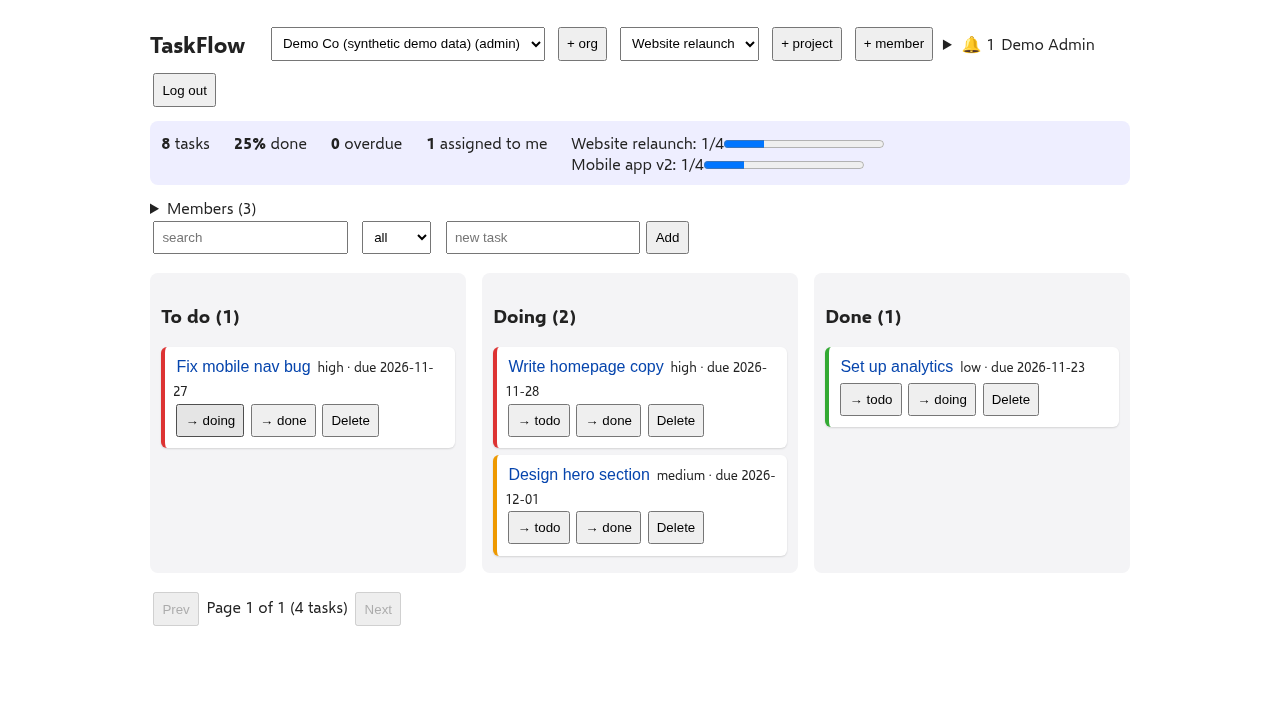
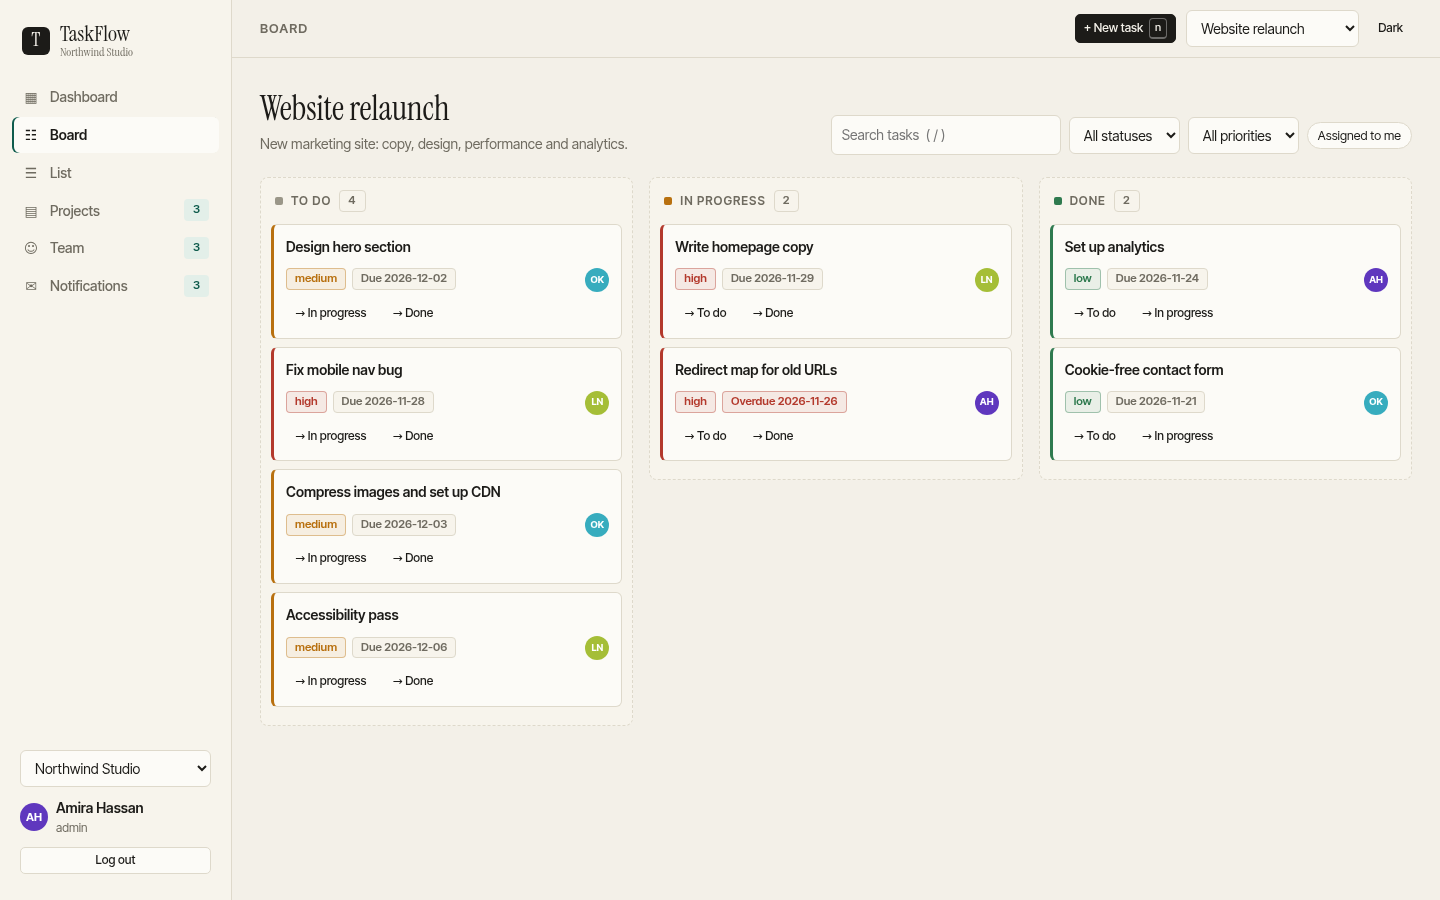
feat: richer starter workspace, redesigned task drawer, drag feedback; README screenshots

diff --git a/frontend/src/TaskDetail.tsx b/frontend/src/TaskDetail.tsx
@@ -32,29 +32,36 @@ export function TaskDetail({ task, members, me, role, onClose, onChanged }: Prop
   }
   const set = <K extends keyof Task>(k: K, v: Task[K]) => setDraft((d) => ({ ...d, [k]: v }));
 
+  const STATUS_TXT: Record<Status, string> = { todo: "To do", doing: "In progress", done: "Done" };
+  const pk = draft.priority === "high" ? "bad" : draft.priority === "medium" ? "warn" : "ok";
   return (
     <Modal drawer title="Task details" onClose={onClose}>
-      <div className="col" aria-label="Task details">
-        <label className="f">Title<input aria-label="Title" disabled={!editable} value={draft.title} onChange={(e) => set("title", e.target.value)} /></label>
-        <label className="f">Description<textarea aria-label="Description" disabled={!editable} value={draft.description} onChange={(e) => set("description", e.target.value)} placeholder="Add details, acceptance criteria, links..." /></label>
-        <div className="grid g2">
+      <div className="col td" aria-label="Task details">
+        <div className="row">
+          <span className={`pill s-${draft.status}`}>{STATUS_TXT[draft.status]}</span>
+          <span className={`badge ${pk}`}>{draft.priority} priority</span>
+          <span className="muted small sp">#{task.id}</span>
+        </div>
+        <input className="td-title" aria-label="Title" disabled={!editable} value={draft.title} onChange={(e) => set("title", e.target.value)} />
+        <div className="td-meta">
           <label className="f">Status<select disabled={!editable} value={draft.status} onChange={(e) => set("status", e.target.value as Status)}><option value="todo">To do</option><option value="doing">In progress</option><option value="done">Done</option></select></label>
           <label className="f">Priority<select disabled={!editable} value={draft.priority} onChange={(e) => set("priority", e.target.value as Priority)}><option>low</option><option>medium</option><option>high</option></select></label>
           <label className="f">Assignee<select disabled={!editable} value={draft.assignee_id ?? ""} onChange={(e) => set("assignee_id", e.target.value ? Number(e.target.value) : null)}><option value="">Unassigned</option>{members.map((m) => <option key={m.user_id} value={m.user_id}>{m.name || m.email}</option>)}</select></label>
           <label className="f">Due date<input type="date" disabled={!editable} value={draft.due_date ?? ""} onChange={(e) => set("due_date", e.target.value || null)} /></label>
         </div>
+        <label className="f">Description<textarea aria-label="Description" disabled={!editable} value={draft.description} onChange={(e) => set("description", e.target.value)} placeholder="Add details, acceptance criteria, links..." /></label>
         <div className="row">
           {editable && <button className="btn primary" onClick={save}>Save changes</button>}
           {atLeast(role, "manager") && <button className="btn danger sp" onClick={remove}>Delete</button>}
         </div>
         {error && <p role="alert" className="err">{error}</p>}
-        <h3 style={{ marginTop: 10 }}>Comments ({comments.length})</h3>
-        <div className="list">
+        <h3 style={{ marginTop: 14 }}>Activity &middot; {comments.length} comment{comments.length === 1 ? "" : "s"}</h3>
+        <div className="thread">
           {comments.length === 0 && <p className="muted small">No comments yet. Start the conversation.</p>}
           {comments.map((c) => (
-            <div key={c.id} className="row" style={{ alignItems: "flex-start" }}>
-              <Avatar name={who(c.author_id)} />
-              <div><b>{who(c.author_id)}</b> <span className="muted small">{c.created_at ? ago(c.created_at) : ""}</span><p>{c.body}</p></div>
+            <div key={c.id} className="cm">
+              <Avatar name={who(c.author_id)} size={26} />
+              <div className="cm-b"><div className="cm-h"><b>{who(c.author_id)}</b><span className="muted small">{c.created_at ? ago(c.created_at) : ""}</span></div><p>{c.body}</p></div>
             </div>
           ))}
         </div>

diff --git a/frontend/src/styles.css b/frontend/src/styles.css
@@ -70,3 +70,14 @@ table.t{width:100%;border-collapse:collapse}table.t th{text-align:left;font-size
 .login-wrap .card{background:var(--panel)}
 @media(max-width:900px){.shell{grid-template-columns:1fr}.side{position:fixed;left:0;top:0;z-index:40;transform:translateX(-100%);transition:.2s;width:var(--side)}.side.open{transform:none}.menu-btn{display:inline-flex}.g2,.g3,.g4,.g-main{grid-template-columns:1fr}.page{padding:20px 14px}.top{padding:10px 14px}.cols{grid-template-columns:1fr}.lp{grid-template-columns:1fr}.lp-l{padding:28px 22px}.mini{display:none}}
 @media(min-width:901px) and (max-width:1150px){.g4{grid-template-columns:repeat(2,1fr)}.g3{grid-template-columns:repeat(2,1fr)}}
+
+/* task drawer */
+.td-title{font-family:var(--serif);font-size:30px;line-height:1.1;border:0;background:transparent;padding:4px 0;border-bottom:1px solid transparent;border-radius:0;width:100%}.td-title:hover:not(:disabled),.td-title:focus{border-bottom-color:var(--border);box-shadow:none}
+.td-meta{display:grid;grid-template-columns:1fr 1fr;gap:12px;padding:14px 0;border-top:1px solid var(--border);border-bottom:1px solid var(--border)}
+.pill{display:inline-flex;align-items:center;gap:6px;padding:2px 10px;border-radius:99px;font-size:12px;font-weight:600;border:1px solid var(--border)}.pill:before{content:"";width:7px;height:7px;border-radius:2px;background:var(--muted)}
+.pill.s-doing:before{background:var(--warn)}.pill.s-done:before{background:var(--ok)}.pill.s-doing{color:var(--warn)}.pill.s-done{color:var(--ok)}
+.thread{display:flex;flex-direction:column;gap:14px}.cm{display:flex;gap:10px;align-items:flex-start}.cm-b{background:var(--panel-2);border:1px solid var(--border);border-radius:4px 10px 10px 10px;padding:8px 12px;flex:1}.cm-h{display:flex;gap:8px;align-items:baseline}.cm-b p{margin-top:2px}
+/* drag and drop */
+.tcard{transition:transform .15s ease,opacity .15s ease,border-color .12s}.tcard:hover{transform:translateY(-1px)}.tcard.dragging{opacity:.4;transform:rotate(-1.5deg) scale(.98)}
+.lane.over{border-style:solid}.lane{transition:background .15s,border-color .15s}
+@keyframes land{from{transform:scale(.97);opacity:.6}}.tcard{animation:land .22s ease}

diff --git a/frontend/src/Board.tsx b/frontend/src/Board.tsx
@@ -13,6 +13,7 @@ const today = () => new Date().toISOString().slice(0, 10);
 /** Kanban lanes with drag and drop. Moves are only offered when the role allows them (the API enforces it again). */
 export function Board({ tasks, role, me, members = [], onMove, onOpen }: Props) {
   const [over, setOver] = useState<Status | null>(null);
+  const [drag, setDrag] = useState<number | null>(null);
   const who = (id: number | null) => (id ? members.find((m) => m.user_id === id)?.name || members.find((m) => m.user_id === id)?.email || "" : "");
   return (
     <div className="cols">
@@ -27,7 +28,7 @@ export function Board({ tasks, role, me, members = [], onMove, onOpen }: Props) 
             {col.map((t) => {
               const late = t.due_date && t.due_date < today() && t.status !== "done";
               return (
-                <article key={t.id} className={`tcard p-${t.priority}`} draggable={canEditTask(role, me, t)} onDragStart={(e) => e.dataTransfer.setData("text/plain", String(t.id))}>
+                <article key={t.id} className={`tcard p-${t.priority} ${drag === t.id ? "dragging" : ""}`} draggable={canEditTask(role, me, t)} onDragStart={(e) => { e.dataTransfer.setData("text/plain", String(t.id)); setDrag(t.id); }} onDragEnd={() => { setDrag(null); setOver(null); }}>
                   <button className="t" onClick={() => onOpen(t)}>{t.title}</button>
                   <div className="meta">
                     <Badge kind={t.priority === "high" ? "bad" : t.priority === "medium" ? "warn" : "ok"}>{t.priority}</Badge>

diff --git a/app/main.py b/app/main.py
@@ -107,29 +107,50 @@ def create_app() -> FastAPI:
         db.flush()
         db.add_all([TeamMember(team_id=team.id, user_id=u.id) for u in (me_, mate1, mate2)])
         today = date.today()
+        # (title, status, priority, due offset in days, assignee, description)
         spec = {
             "Website relaunch": [
-                ("Write homepage copy", "doing", "high", 2, mate2),
-                ("Design hero section", "todo", "medium", 5, mate1),
-                ("Set up analytics", "done", "low", -3, me_),
-                ("Fix mobile nav bug", "todo", "high", 1, mate2),
+                ("Write homepage copy", "doing", "high", 2, mate2, "Hero, three feature blocks and the pricing teaser. Tone: plain and confident. Review with Omar before Thursday."),
+                ("Design hero section", "todo", "medium", 5, mate1, "Two layout options in Figma. Needs to work at 360px width first."),
+                ("Set up analytics", "done", "low", -3, me_, "Page views, signup funnel and form errors. No cookies banner needed with the current setup."),
+                ("Fix mobile nav bug", "todo", "high", 1, mate2, "Menu does not close after tapping a link on iOS Safari. Reproduced on iPhone 12."),
+                ("Redirect map for old URLs", "doing", "high", -1, me_, "Map the 48 old URLs to the new structure so search ranking is kept."),
+                ("Compress images and set up CDN", "todo", "medium", 6, mate1, "Target: homepage under 1.5 MB and LCP under 2.5 s on 4G."),
+                ("Accessibility pass", "todo", "medium", 9, mate2, "Contrast, focus order and form labels. Run axe on every template."),
+                ("Cookie-free contact form", "done", "low", -6, mate1, "Form posts to the API, rate limited, with a plain thank-you page."),
             ],
             "Mobile app v2": [
-                ("Plan release checklist", "doing", "medium", 7, mate1),
-                ("Review crash reports", "todo", "high", 3, me_),
-                ("Update onboarding screens", "done", "medium", -1, mate2),
-                ("Draft changelog", "todo", "low", 10, None),
+                ("Plan release checklist", "doing", "medium", 7, mate1, "Store listing, screenshots, release notes, staged rollout at 10% then 50%."),
+                ("Review crash reports", "todo", "high", 3, me_, "Top three crashes are all on Android 12 during the sync screen."),
+                ("Update onboarding screens", "done", "medium", -1, mate2, "Three screens instead of five. Skip option on every screen."),
+                ("Draft changelog", "todo", "low", 10, None, "Group by: new, improved, fixed. Keep each line under 80 characters."),
+                ("Offline mode for task list", "doing", "high", 4, mate2, "Queue edits locally and sync when the connection returns. Conflict rule: last write wins, with a visible note."),
+                ("Dark theme polish", "todo", "low", 12, mate1, "Check every screen against the new palette. Charts need a separate pass."),
+                ("Push notification settings", "todo", "medium", 8, me_, "Per-project toggles and quiet hours."),
+                ("Migrate analytics events", "done", "medium", -4, me_, "Renamed 14 events and removed 6 that nobody used."),
+                ("Fix login loop after password reset", "done", "high", -2, mate2, "Token was cached from before the reset. Cleared on password change."),
+            ],
+            "Customer onboarding": [
+                ("Welcome email sequence", "doing", "medium", 3, mate1, "Day 0, day 2 and day 7. Each has one action and one link."),
+                ("Import from CSV", "todo", "high", 6, mate2, "Map columns, preview the first 20 rows, show row-level errors."),
+                ("Sample project for new accounts", "todo", "low", 11, None, "Starter board with five tasks so the first screen is not empty."),
+                ("Onboarding checklist widget", "done", "medium", -5, me_, "Four steps with progress. Hides itself when complete."),
+                ("Support macros for top 10 questions", "todo", "low", 14, mate1, "Pull the questions from the last 90 days of tickets."),
+                ("Measure activation rate", "doing", "medium", 5, me_, "Activation = first task completed within 7 days of signup. Weekly chart on the dashboard."),
             ],
         }
-        pdesc = {"Website relaunch": "New marketing site: copy, design and analytics.", "Mobile app v2": "Second major release of the mobile app."}
+        pdesc = {
+            "Website relaunch": "New marketing site: copy, design, performance and analytics.",
+            "Mobile app v2": "Second major release of the mobile app, with offline support.",
+            "Customer onboarding": "Everything a new customer sees in their first week.",
+        }
         first = None
+        created = {}
         for pname, tasks in spec.items():
-            pr = Project(
-                org_id=org.id, team_id=team.id, name=pname, description=pdesc[pname]
-            )
+            pr = Project(org_id=org.id, team_id=team.id, name=pname, description=pdesc[pname])
             db.add(pr)
             db.flush()
-            for title, st, pri, due, who in tasks:
+            for title, st, pri, due, who, desc in tasks:
                 tk = Task(
                     project_id=pr.id,
                     title=title,
@@ -138,21 +159,27 @@ def create_app() -> FastAPI:
                     due_date=today + timedelta(days=due),
                     assignee_id=who.id if who else None,
                     created_by=me_.id,
-                    description="",
+                    description=desc,
                 )
                 db.add(tk)
                 db.flush()
+                created[title] = tk
                 first = first or tk
-        db.add(
-            Comment(task_id=first.id, author_id=mate1.id, body="Let's get this done before Friday.")
-        )
-        db.add(
-            Notification(
-                user_id=me_.id,
-                task_id=first.id,
-                text="Sample Manager commented on 'Write homepage copy'",
-            )
-        )
+        talk = [
+            ("Write homepage copy", mate1, "Let's get this done before Friday."),
+            ("Write homepage copy", mate2, "First draft is in the doc. The pricing teaser still needs a number."),
+            ("Fix mobile nav bug", me_, "Can you confirm it is only iOS Safari? Android looked fine for me."),
+            ("Fix mobile nav bug", mate2, "Only Safari. I think the click handler is blocked by the overlay."),
+            ("Redirect map for old URLs", mate1, "I added the blog URLs to the sheet. 12 left."),
+            ("Review crash reports", mate1, "The sync screen crash is the one to fix first, it is 70% of the volume."),
+            ("Offline mode for task list", me_, "Keep the conflict note short. Users only need to know something was overwritten."),
+            ("Import from CSV", mate1, "Customers send Excel files more than CSV. Worth accepting .xlsx later."),
+        ]
+        for title, author, text in talk:
+            db.add(Comment(task_id=created[title].id, author_id=author.id, body=text))
+        db.add(Notification(user_id=me_.id, task_id=created["Write homepage copy"].id, text=f"{mate1.name} commented on 'Write homepage copy'"))
+        db.add(Notification(user_id=me_.id, task_id=created["Fix mobile nav bug"].id, text=f"{mate2.name} replied on 'Fix mobile nav bug'"))
+        db.add(Notification(user_id=me_.id, task_id=created["Review crash reports"].id, text="You were assigned: Review crash reports"))
         db.commit()
         return s.Token(access_token=create_token(me_.id))
 

diff --git a/tests/test_guest.py b/tests/test_guest.py
@@ -3,11 +3,11 @@ from fastapi.testclient import TestClient
 from app.main import app
 
 
-def test_demo_creates_seeded_workspace():
+def test_guest_creates_starter_workspace():
     c = TestClient(app)
     tok = c.post("/auth/guest").json()["access_token"]
     h = {"Authorization": f"Bearer {tok}"}
     orgs = c.get("/orgs", headers=h).json()
     assert len(orgs) == 1 and orgs[0]["name"] == "Northwind Studio" and orgs[0]["role"] == "admin"
     projects = c.get(f"/orgs/{orgs[0]['id']}/projects", headers=h).json()
-    assert projects["total"] == 2
+    assert projects["total"] == 3

diff --git a/README.md b/README.md
@@ -76,17 +76,19 @@ Tables: users, organizations, memberships(role), teams, team_members, projects, 
 Alembic migrations exist (see below) but the app still runs `create_all` on start. No email delivery for notifications (in-app only), no real-time updates (refresh/poll), OFFSET pagination gets slow for huge tables (use keyset), no refresh tokens. Login is throttled per email (5 failures in 5 minutes returns 429, in-process memory only, so each server instance counts separately). `JWT_SECRET` must be set; without it a key derived from `DATABASE_URL` is used (demo only, logged as a warning), and `APP_ENV=production` refuses to start, no file attachments.
 
 ## Live deployment (free tier)
-Open the frontend and click **Try demo (no sign-up)**. It creates a throwaway admin user and an isolated org with clearly synthetic sample data (2 projects, 8 tasks, 3 members).
+Open the frontend and click **Explore without signing up**. It creates a throwaway admin user and an isolated workspace with starter content (3 projects, 23 tasks, 3 members, comments). Seed data is generated, not real customer data.
 
-![TaskFlow dashboard, live demo](docs/screenshot-dashboard.png)
+![TaskFlow dashboard](docs/screenshot-dashboard.png)
+![Board](docs/screenshot-board.png)
+![Task details](docs/screenshot-task.png)
 
 The v3 UI adds a dashboard, board, list view, projects, team and notifications pages, with dark mode.
 
 - Frontend (React, static, Vercel Hobby): https://taskflow-web-lilac.vercel.app
 - API (FastAPI as a Vercel Python function; interactive docs at `/docs`): https://taskflow-api-sepia-rho.vercel.app
 - Database: Neon serverless PostgreSQL (free plan).
-- Verified in a real browser as a fresh visitor (Nov 26): Try demo loads the seeded board, task detail opens, and moving a task between columns updates the UI. Also `/health`, `/docs` and registration work against Neon.
-- Cold starts on the free tier can make the first request slow. The live DB may contain demo or test data.
+- Verified in a real browser as a fresh visitor (Nov 26): Explore without signing up loads the seeded board, task detail opens, and moving a task between columns updates the UI. Also `/health`, `/docs` and registration work against Neon.
+- Cold starts on the free tier can make the first request slow. The live database may contain test data.
 
 ## End-to-end test
 
